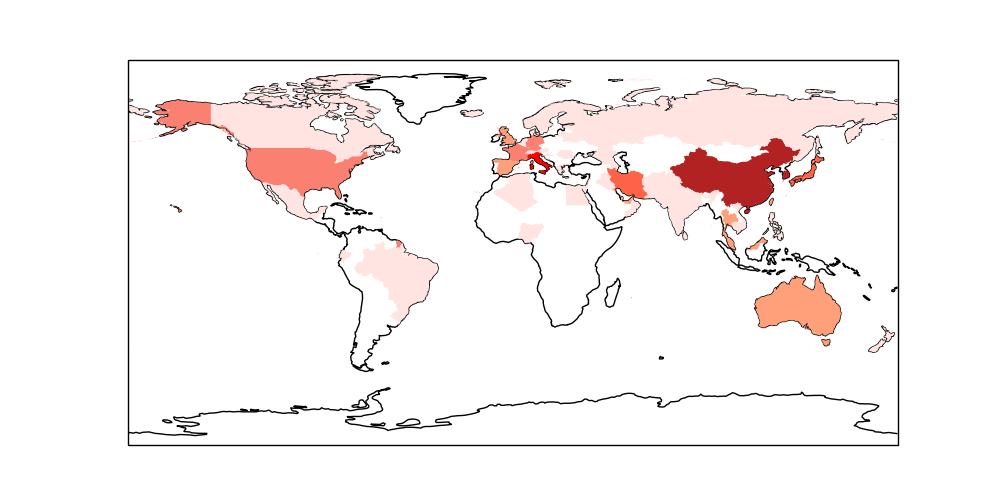
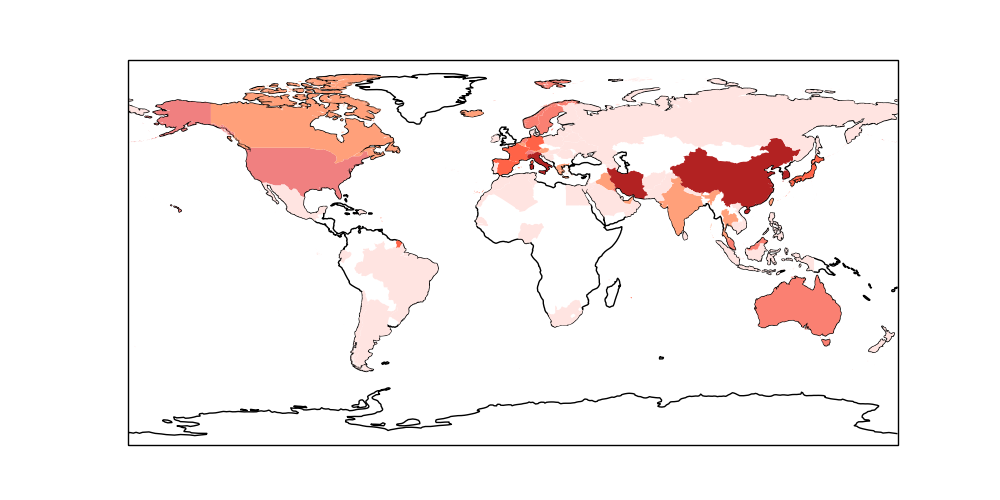
-

diff --git a/en/2020/02/corona.md b/en/2020/02/corona.md
@@ -3,7 +3,12 @@
 ```python
 import pandas as pd
 
-df1 = pd.read_csv('corona.csv',sep='\t')
+#df1 = pd.read_csv('corona.csv',sep='\t')
+
+df = pd.read_csv('corona.csv',sep=r'\t',header=None)
+df1 = df[[0,1,3,5]]
+df1.columns = ['Country','Confirmed','Deaths','Recovered']
+
 d1 = df1[['Country','Confirmed']].set_index('Country').to_dict()
 df2 = pd.read_csv('alpha3country.csv',sep=',', skipinitialspace=True)
 d2 = df2[['Country','Alpha-3 code']].set_index('Country').to_dict()
@@ -52,14 +57,14 @@ print ('\nUpdated:',datetime.datetime.now())
 ```
 
 ```text
-Total Confirmed 85273.0
+Total Confirmed 96151.0
 
-Updated: 2020-02-29 21:27:46.926808
+Updated: 2020-03-05 19:35:20.194924
 ```
 
 [corona.csv](corona.csv)
 
-[Reference - Wiki](https://en.wikipedia.org/wiki/2019%E2%80%9320_coronavirus_outbreak)
+[Data](https://www.worldometers.info/coronavirus/)
 
 
 
